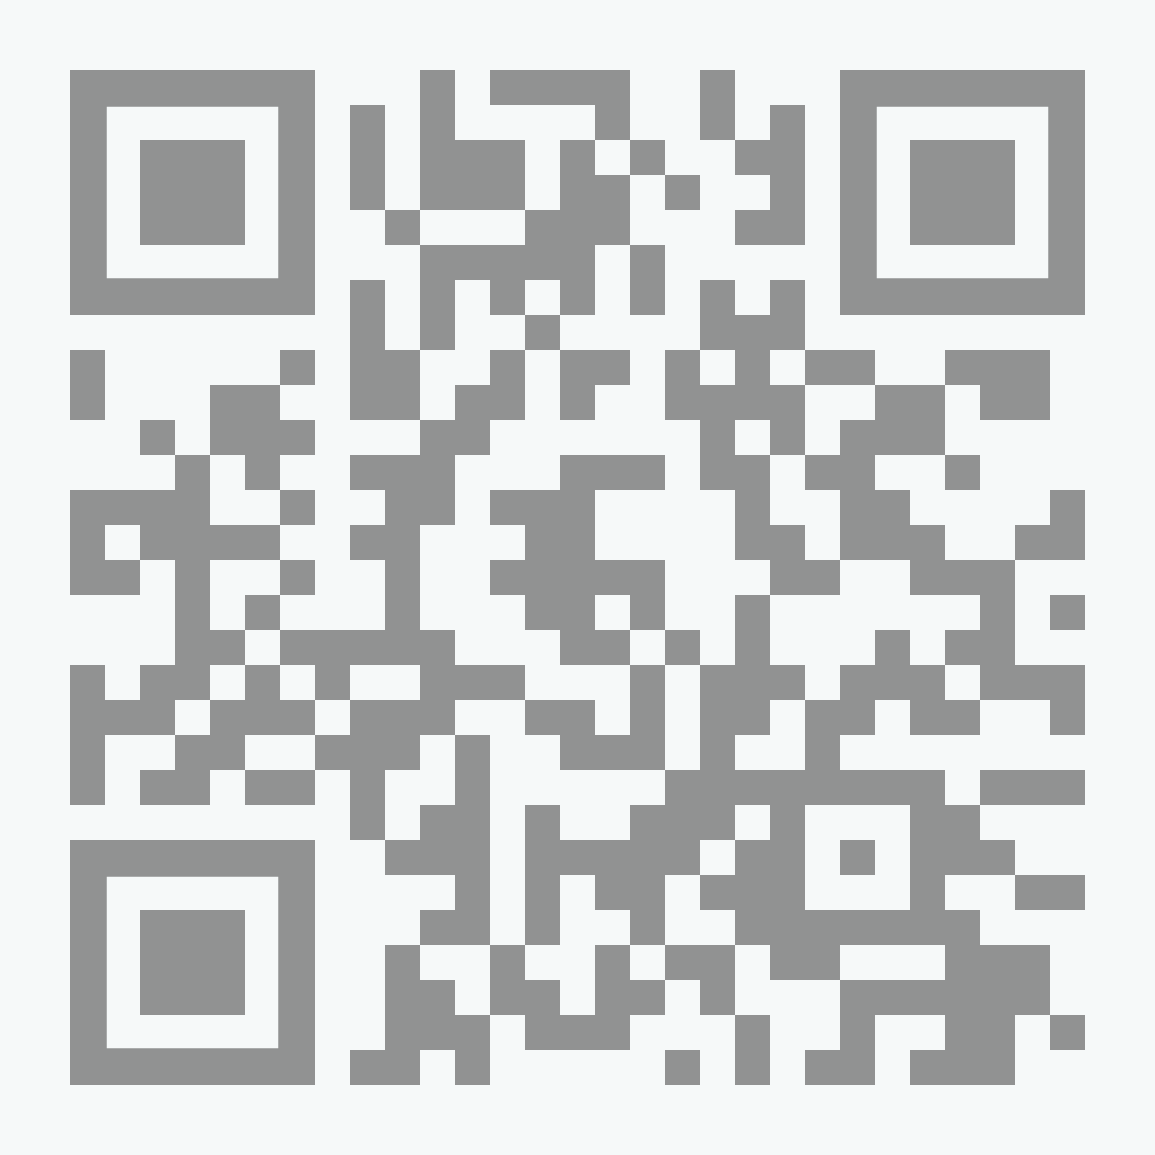
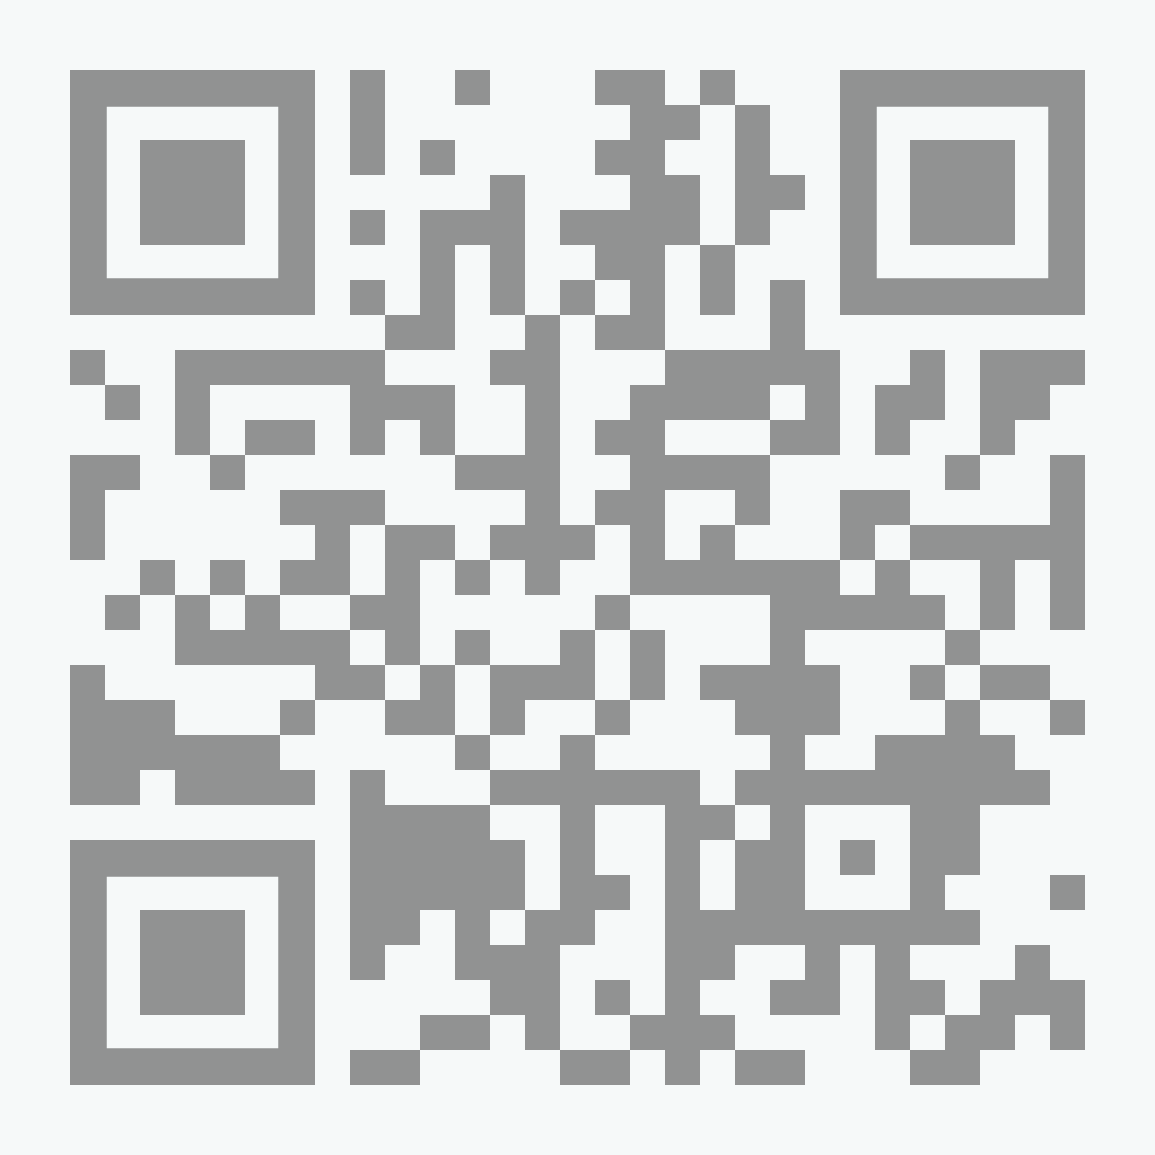
unknown changes

diff --git a/index.html b/index.html
@@ -85,11 +85,11 @@
                                 v1</a><br/>
 <a href="https://forfoodsake.herokuapp.com/" target=“_blank” rel=“noopener noreferrer”>For Food Sake v1</a></p>
             <p>View My Resume<br/>
-                <a href="https://drive.google.com/file/d/1NH4Ius_b28bPfBzoV2v8NyU9_5COLdcX/view?usp=sharing" target=“_blank”
+                <a href="https://drive.google.com/file/d/18zcZbvC5_XRVThfHEv8l1eJ7ibVjWf36/view?usp=sharing" target=“_blank”
         rel=“noopener noreferrer”>Click here</a>
             </p>
 <div class="footer">
-            <p>© 2020 Designed & Built by <a href="https://rixiobarrios.github.io/" target=“_blank”
+            <p>© 2020 Designed & Built by <a href="https://www.rixiobarrios.com/" target=“_blank”
         rel=“noopener noreferrer”>Rixio Barrios</a>.</p></div>
         </div>
     </body>
